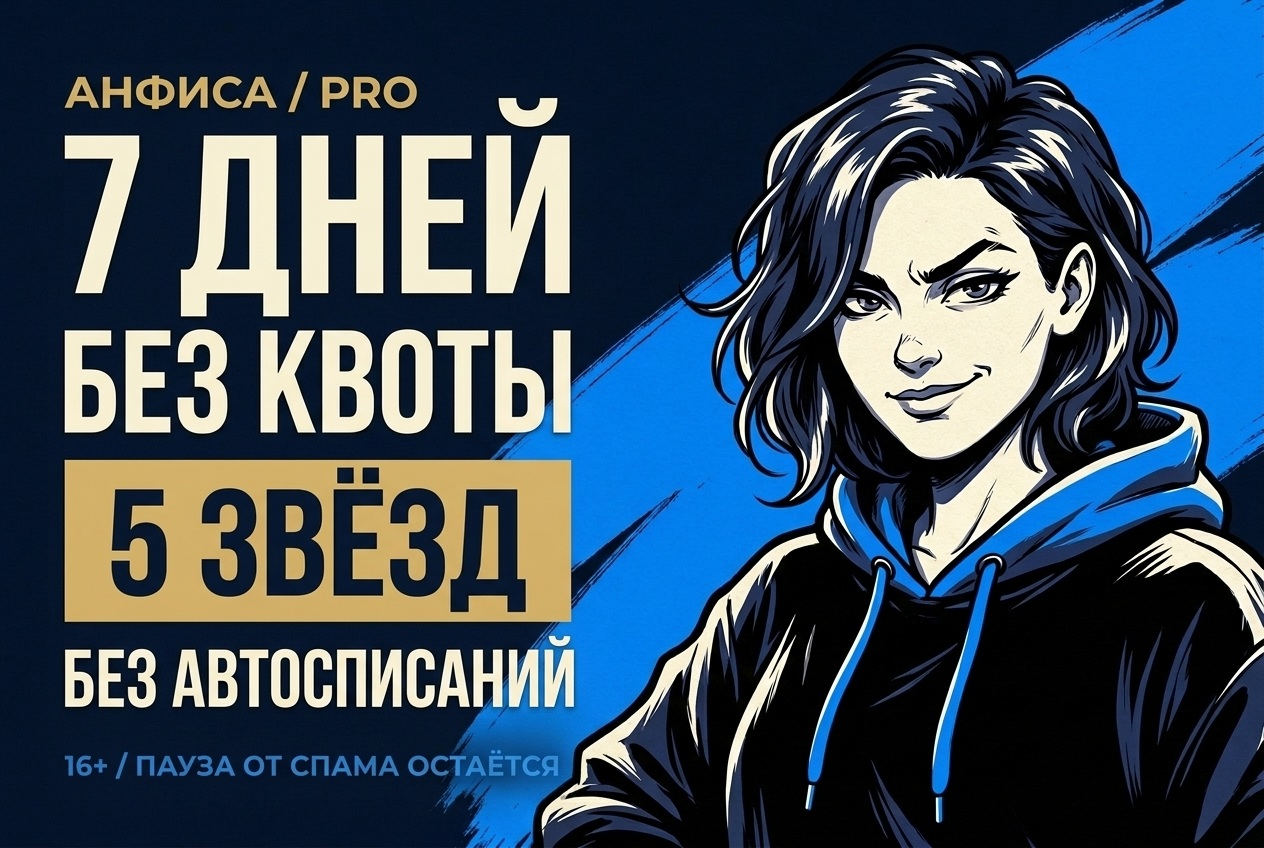
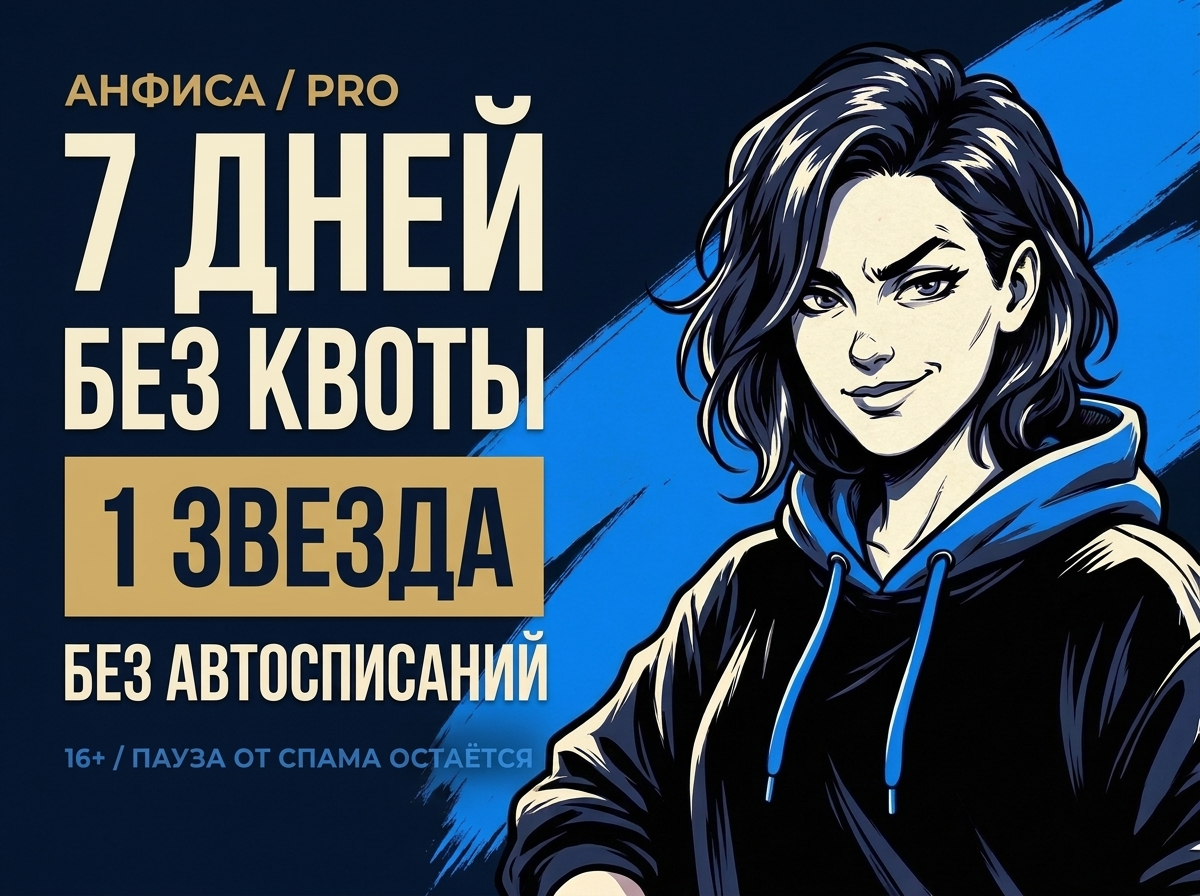
Add files via upload

diff --git a/bot.py b/bot.py
@@ -335,7 +335,7 @@ def menu_keyboard(mode="hard", pro=False):
     return InlineKeyboardMarkup(inline_keyboard=[
         [button(("✓ " if key == mode else "") + label, "mode:" + key)
          for key, label in MODE_NAMES.items()],
-        [button("⭐ Мой Pro · продлить" if pro else "⭐ Pro · 7 дней за 5 звёзд", "ui:pro")],
+        [button("⭐ Мой Pro · продлить" if pro else f"⭐ Pro · 7 дней за {billing.PRICE} ⭐", "ui:pro")],
         [button("❔ Как общаться", "ui:help"), button("🔒 О данных", "ui:privacy")],
     ])
 
@@ -360,20 +360,21 @@ PRIVACY = (
     "Локально: Telegram ID, согласие, режим и последние 24 сообщения. "
     "Тексты старше 30 дней очищаются ежечасно.\n"
     "Для квоты сохраняются отметки бесплатных запросов за последний час. "
+    "Для постоянного бонуса — Telegram ID и дата получения; это не история переписки. "
     "Для Pro — заказы, подтверждения платежей, сроки доступа и возвраты. "
     "Финансовый журнал не удаляется автоматически командой /delete.\n\n"
     "/reset — стереть переписку. /delete — также настройки и согласие. "
-    "Активный оплаченный доступ, записи платежей и временные антиспам-счётчики сохраняются. "
+    "Активный оплаченный доступ, записи платежей, постоянный бонус к квоте и временные антиспам-счётчики сохраняются. "
     "Старый дневной счётчик предыдущей версии очищается после смены дня UTC.\n\n"
     "Это не удаляет копии у Telegram и провайдеров. Самоподтверждение 16+ не заменяет "
     "проверку документов. По данным и платежам: /support текст или /paysupport текст."
 )
 TERMS = (
     "<b>📜 Условия Pro</b>\n\n"
-    "⭐ Цена: <b>5 Telegram Stars</b>.\n"
+    f"⭐ Цена: <b>{billing.PRICE} ⭐</b> (Telegram Stars).\n"
     "🗓 Срок: <b>7 × 24 часа</b> после подтверждения оплаты. "
     "Повторная покупка добавляет 7 дней к действующему сроку.\n"
-    "∞ На этот срок снимается бесплатная квота 10 запросов/час. "
+    f"∞ На этот срок снимается бесплатная квота {billing.FREE_LIMIT} запросов/час (с постоянным бонусом — {billing.FREE_LIMIT + billing.GOSHA_BONUS}). "
     f"Пауза {COOLDOWN} с, ограничения длины и защита от перегрузки остаются.\n"
     "🔁 Разовый платёж, <b>без автопродления</b>.\n\n"
     "Оплачивается доступ к ИИ-боту, а не гарантированная формулировка каждого ответа. "
@@ -391,9 +392,9 @@ HELP = (
     "😌 Мягко — спокойно и без мата.\n🔥 Жёстко — ругань и личные подколы.\n"
     "💀 Без фильтров — самая грубая добровольная перепалка. "
     "При реальном кризисе — поддержка, не добивание.\n\n"
-    "🆓 Бесплатно: 10 успешных ответов за скользящие 60 минут. "
+    f"🆓 Бесплатно: {billing.FREE_LIMIT} успешных ответов за скользящие 60 минут; с постоянным бонусом — {billing.FREE_LIMIT + billing.GOSHA_BONUS}. "
     "Освободившийся запрос возвращается через час после его использования.\n"
-    "⭐ Pro: 5 звёзд → 7 дней без почасовой квоты. Оплата — в отдельном боте.\n👑 Owner — без квоты и паузы между запросами.\n\n"
+    f"⭐ Pro: {billing.PRICE} ⭐ → 7 дней без почасовой квоты. Оплата — в отдельном боте.\n👑 Owner — без квоты и паузы между запросами.\n\n"
     "/menu — меню · /pro — доступ · /role — роль\n/soft · /hard · /raw — режимы\n"
     "/reset — забыть диалог · /delete — удалить данные\n"
     "/terms — условия · /privacy — данные\n/paysupport текст — помощь с оплатой\n"
@@ -430,10 +431,11 @@ async def show_menu(message, uid, edit=False):
         if OWNER_ID > 0 and uid == OWNER_ID:
             quota = "∞ <b>Owner: без квоты и паузы между запросами</b>"
         else:
-            quota = f"⭐ <b>Pro до {utc_date(state['until'])}</b>" if state['pro'] else f"🆓 <b>{state['remaining']}/10</b> запросов за последний час"
+            quota = f"⭐ <b>Pro до {utc_date(state['until'])}</b>" if state['pro'] else f"🆓 <b>{state['remaining']}/{state['limit']}</b> запросов за последний час"
+        bonus_line = f"\n🎁 Постоянный бонус: +{state['bonus']} к бесплатному лимиту" if state['bonus'] else ""
         caption = (
             "<b>АНФИСА · коротко и в лицо</b>\n\n"
-            f"{role_line(uid, state)}\n🎛 Твой режим: <b>{MODE_NAMES[mode]}</b>\n{quota}\n\n"
+            f"{role_line(uid, state)}\n🎛 Твой режим: <b>{MODE_NAMES[mode]}</b>\n{quota}{bonus_line}\n\n"
             "Пиши прямо в чат. Меньше церемоний — больше дела."
         )
         kb = menu_keyboard(mode, state['pro'])
@@ -472,7 +474,7 @@ async def show_pro(message, uid):
         current = "\n👑 <b>У Owner уже нет квоты и паузы. Покупка для себя не требуется.</b>\n"
     text = (
         "<b>⭐ АНФИСА PRO</b>\n" + role_line(uid, state) + "\n\n"
-        "∞ Без почасовой квоты\n🗓 7 дней доступа\n💫 Всего 5 Telegram Stars\n"
+        f"∞ Без почасовой квоты\n🗓 7 дней доступа\n💫 Всего {billing.PRICE} ⭐ (Telegram Stars)\n"
         "🔁 Без автосписаний\n" + current +
         f"\nПауза {COOLDOWN} с и защита от перегрузки остаются для обычного Pro. "
         "Повторная покупка продлевает срок на 7 дней.\n\n"
@@ -483,7 +485,7 @@ async def show_pro(message, uid):
     if payments_ready():
         payload = "gl_" + secrets.token_urlsafe(24)
         await bill("create_order", uid, {'payload': payload, 'merchant_id': PAYMENT_BOT.id, 'kind': 'link'})
-        rows.append([InlineKeyboardButton(text="Оплатить ⭐ 5", url=f"https://t.me/{PAYMENT_USERNAME}?start={payload}")])
+        rows.append([InlineKeyboardButton(text=f"Оплатить ⭐ {billing.PRICE}", url=f"https://t.me/{PAYMENT_USERNAME}?start={payload}")])
     else:
         if OWNER_ID > 0 and uid == OWNER_ID:
             text += "\n\n⚙ Есть ошибка настройки оплаты. Нажми кнопку диагностики ниже."
@@ -550,7 +552,8 @@ async def payment_refunded(message: Message):
     payer = charge['user_id'] if charge else message.from_user.id
     until = await bill("refund", payer, (refund.telegram_payment_charge_id, message.bot.id,
                                         MAIN_BOT.id if MAIN_BOT else 0))
-    suffix = f"Pro остаётся до {utc_date(until)}." if until > time.time() else "Доступны бесплатные 10 запросов/час."
+    state = await bill("status", payer)
+    suffix = f"Pro остаётся до {utc_date(until)}." if until > time.time() else f"Доступны бесплатные {state['limit']} запросов/час."
     await message.answer("Возврат учтён. " + suffix)
 
 
@@ -601,7 +604,7 @@ async def clear_handler(message: Message):
     await store(action, message.from_user.id)
     text = "🧹 Переписка забыта. Режим и лимит не изменились."
     if action == "delete":
-        text = "Переписка, настройки и согласие удалены. Оплаченный срок, платёжный журнал и временные счётчики сохраняются. Подробнее: /privacy."
+        text = "Переписка, настройки и согласие удалены. Оплаченный срок, платёжный журнал, постоянный бонус и временные счётчики сохраняются. Подробнее: /privacy."
     await message.answer(text, reply_markup=back_keyboard())
 
 
@@ -667,7 +670,7 @@ async def owner_handler(message: Message):
         await message.answer("Последние платежи:\n\n" + ("\n\n".join(lines) or "Пока нет."), parse_mode=None)
     elif command == "refund":
         if len(parts) < 2:
-            await message.answer("/refund CHARGE_ID — полный возврат 5 Stars. Для несопоставленного платежа: /refund CHARGE_ID TELEGRAM_ID")
+            await message.answer("/refund CHARGE_ID — полный возврат суммы конкретного платежа. Для несопоставленного платежа: /refund CHARGE_ID TELEGRAM_ID")
             return
         charge = await bill("charge", value=parts[1])
         uid = charge['user_id'] if charge else (int(parts[2]) if len(parts) == 3 and parts[2].isdigit() else None)
@@ -722,12 +725,12 @@ async def create_invoice(message, uid, link_payload=None):
     try:
         await message.bot.send_invoice(
             chat_id=uid, title="Анфиса Pro · 7 дней",
-            description=f"7 дней доступа без почасовой квоты в @{MAIN_USERNAME}. Всего 5 Stars, без автосписаний. Защита от спама остаётся.",
+            description=f"7 дней доступа без почасовой квоты в @{MAIN_USERNAME}. Всего {billing.PRICE} ⭐, без автосписаний. Защита от спама остаётся.",
             payload=invoice_payload, provider_token="", currency="XTR",
             prices=[LabeledPrice(label="Pro · 7 дней", amount=billing.PRICE)],
             start_parameter="anfisa-pro",
             reply_markup=InlineKeyboardMarkup(inline_keyboard=[
-                [InlineKeyboardButton(text="Заплатить ⭐ 5", pay=True)],
+                [InlineKeyboardButton(text=f"Заплатить ⭐ {billing.PRICE}", pay=True)],
                 [InlineKeyboardButton(text="Прочитать условия", url=f"https://t.me/{MAIN_USERNAME}?start=terms")]
             ]),
         )
@@ -742,7 +745,7 @@ async def payment_start(message: Message):
     if payload.startswith("gl_") and len(payload) <= 64:
         await create_invoice(message, message.from_user.id, payload)
     else:
-        await message.answer("⭐ Оплата Анфиса Pro: 7 дней за 5 Telegram Stars. Открой Pro в основном боте и нажми «Оплатить» — сюда передастся твой заказ.", reply_markup=main_bot_keyboard(pro=True))
+        await message.answer(f"⭐ Оплата Анфиса Pro: 7 дней за {billing.PRICE} ⭐. Открой Pro в основном боте и нажми «Оплатить» — сюда передастся твой заказ.", reply_markup=main_bot_keyboard(pro=True))
 
 
 async def payment_help(message: Message):
@@ -770,7 +773,7 @@ async def generate(message, uid, text):
         if not permit['ok']:
             if permit['reason'] == 'quota':
                 minutes = max(1, math.ceil((permit['next_slot'] - time.time()) / 60))
-                await message.answer(f"🆓 10/10 за последний час. Следующий запрос примерно через {minutes} мин.\n⭐ Pro: 7 дней без этой квоты за 5 звёзд.",
+                await message.answer(f"🆓 {permit['used']}/{permit['limit']} за последний час. Следующий запрос примерно через {minutes} мин.\n⭐ Pro: 7 дней без этой квоты за {billing.PRICE} ⭐.",
                                      reply_markup=InlineKeyboardMarkup(inline_keyboard=[[button("⭐ Посмотреть Pro", "ui:pro")]]))
             else:
                 await message.answer(f"Пауза между запросами — {COOLDOWN} с.")
@@ -820,9 +823,19 @@ GOSHA_CAPTION = (
 
 @router.message(F.text.regexp(GOSHA_TRIGGER))
 async def gosha_easter_egg(message: Message):
-    # No consent, Owner or Pro gate, generation request, or quota reservation.
+    # Public easter egg: no consent, Owner/Pro gate, generation or request charge.
     if GOSHA_PHOTO.is_file():
         await message.answer_photo(FSInputFile(GOSHA_PHOTO), caption=GOSHA_CAPTION, parse_mode=None)
+        result = await bill("gosha_bonus", message.from_user.id)
+        if result['granted']:
+            await message.answer(
+                f"🎁 Пасхалка найдена! +{billing.GOSHA_BONUS} запросов в час навсегда.\n"
+                f"Твой бесплатный лимит теперь — {result['limit']} запросов/час. "
+                "У Pro и Owner почасовой квоты по-прежнему нет.", parse_mode=None)
+        else:
+            await message.answer(
+                f"🎁 Бонус уже твой: бесплатный лимит — {result['limit']} запросов/час. "
+                "Повторно он не складывается.", parse_mode=None)
     else:
         await message.answer("Гоша ушёл за картинкой. Скоро вернётся 🗿", parse_mode=None)
 
@@ -998,7 +1011,7 @@ async def main():
             await apply_brand(merchant, payment=PAYMENT_BOT is not None and merchant.id == PAYMENT_BOT.id)
         await MAIN_BOT.set_my_commands([
             BotCommand(command="menu", description="🎛 Главное меню"),
-            BotCommand(command="pro", description="⭐ Pro · 7 дней за 5 Stars"),
+            BotCommand(command="pro", description=f"⭐ Pro · 7 дней за {billing.PRICE} ⭐"),
             BotCommand(command="role", description="👤 Моя роль"),
             BotCommand(command="hard", description="🔥 Жёстко"),
             BotCommand(command="soft", description="😌 Без мата"),
